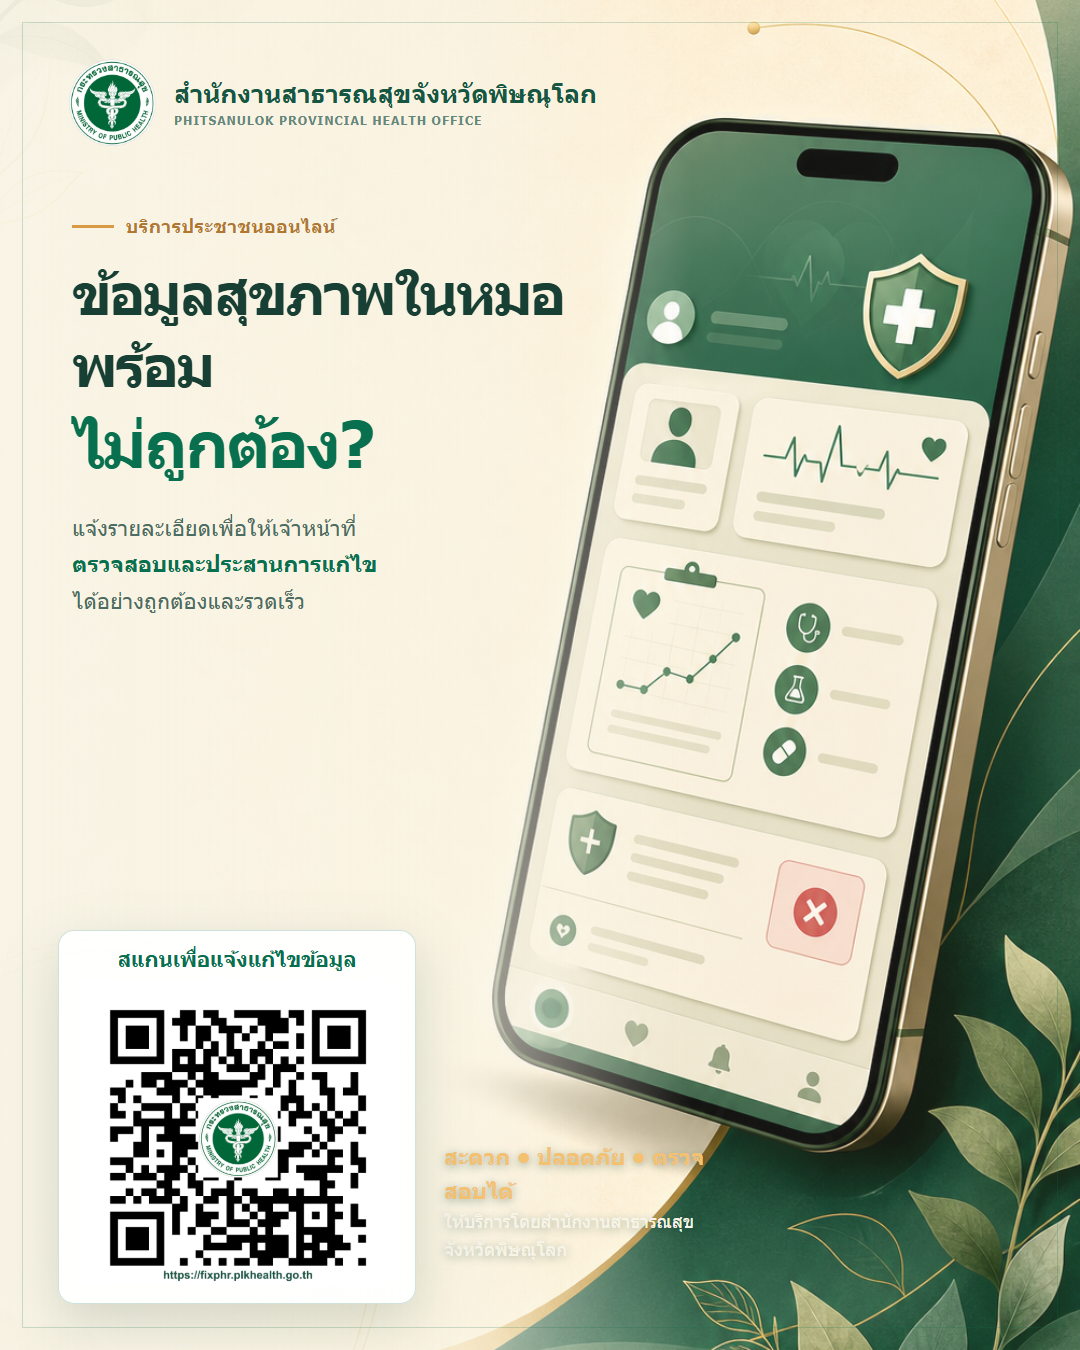
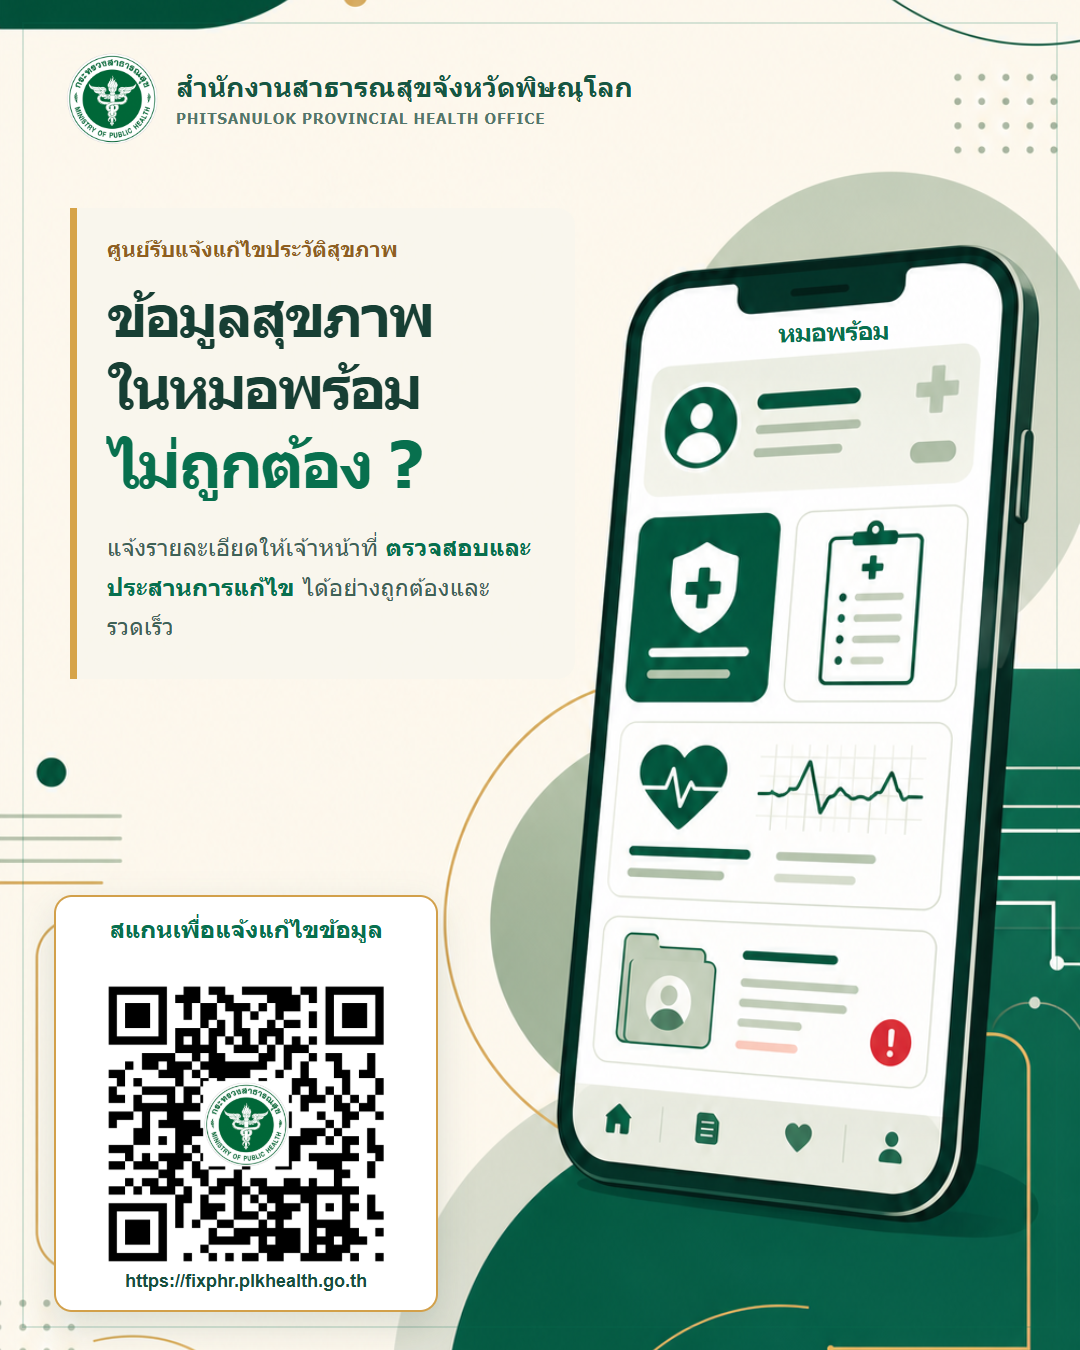
@ feat: add scannable QR code to the landing page
Point visitors on desktop at the mobile site and give staff something to
share. The code sits under the main call to action at 168px with a white
quiet zone so scanners lock on; on mobile the caption is dropped and the
code scales to min(230px, 68vw) so it stays scannable on a 320px screen.

@

diff --git a/src/app/globals.css b/src/app/globals.css
@@ -29,6 +29,12 @@ h1 strong { color: #08704e; font-weight: 700; }
 .complaint-button:hover { transform: translateY(-3px); background: #075e42; box-shadow: 0 16px 32px rgba(8, 112, 78, .29); }
 .complaint-button b { width: 45px; height: 45px; display: grid; place-items: center; border-radius: 3px; background: #f1b561; color: #164e3b; font: 700 26px/1 "DM Sans", sans-serif; }
 
+.qr-invite { display: flex; align-items: center; gap: 20px; margin-top: 28px; }
+.qr-invite img { width: 168px; height: auto; padding: 9px; background: #fff; border: 1px solid rgba(25, 86, 59, .16); border-radius: 8px; box-shadow: 0 10px 24px rgba(44, 75, 56, .1); }
+.qr-invite div { display: grid; gap: 4px; }
+.qr-invite strong { color: #175642; font-size: 15px; font-weight: 700; }
+.qr-invite span { color: #6b8880; font-size: 12px; line-height: 1.6; }
+
 .visual { min-height: 455px; position: relative; display: grid; place-items: center; }
 .visual::before { content: ""; position: absolute; width: min(34vw, 480px); aspect-ratio: 1; background: #d9eacb; border-radius: 47% 53% 47% 53% / 58% 42% 58% 42%; transform: rotate(-15deg); }
 .orbit { position: absolute; border: 1px solid rgba(8, 112, 78, .18); border-radius: 50%; }
@@ -46,4 +52,4 @@ h1 strong { color: #08704e; font-weight: 700; }
 footer { display: flex; justify-content: space-between; align-items: center; position: relative; z-index: 2; padding-top: 20px; }.visit-count { display: flex; align-items: center; gap: 8px; color: #55786c; font-size: 12px; }.visit-count svg { width: 18px; height: 18px; color: #d78a36; }.footer-mohprom { width: 72px; height: 72px; object-fit: contain; transform: translateY(-48px) scale(1.42); }
 .anchor-target { position: absolute; top: 0; }
 
-@media (max-width: 780px) { .landing-page { padding: 0; }.hero { min-height: 100svh; padding: 25px 25px 20px; border: 0; }.brand img { width: 63px; height: 63px; }.brand p { font-size: 19px; }.brand span { font-size: 12px; }.case-stats { top: auto; right: auto; bottom: 18px; left: 25px; gap: 5px; padding: 9px 10px; font-size: 10px; }.case-stats svg { width: 13px; height: 13px; }.case-stats b, .visit-count b { font-size: 14px; }.hero-grid { grid-template-columns: 1fr; gap: 0; }.hero-copy { padding: 48px 0 10px; transform: translateY(-20px); }.eyebrow { margin-bottom: 14px; } h1 { font-size: clamp(34px, 8.2vw, 48px); line-height: 1.38; }.intro { margin: 18px 0 24px; font-size: 14px; line-height: 1.75; }.complaint-button { width: 100%; justify-content: space-between; font-size: 14px; }.visual { min-height: 330px; margin-top: -14px; }.phone { width: 172px; border-radius: 26px; }.phone-top { height: 46px; padding-top: 12px; font-size: 12px; }.phone-top span { font-weight: 800; }.phone-screen { padding: 24px 16px; }.phone-screen h2 { font-size: 17px; }.phone-screen h2 > span { padding: 10px; }.issue-icons { gap: 8px; margin-bottom: 7px; }.issue-x { width: 31px; height: 31px; }.patient-chart { width: 31px; height: 31px; }.health-card { bottom: 25px; min-height: 67px; padding: 10px; }.cross { width: 25px; height: 25px; font-size: 19px; }.health-card b { font-size: 9px; }.leaf-one { right: 6%; }.leaf-two { left: 4%; } footer { padding-top: 3px; }.visit-count { font-size: 10px; transform: translateY(-48px); }.visit-count svg { width: 14px; height: 14px; }.footer-mohprom { width: 60px; height: 60px; transform: translateY(-36px) scale(1.42); } }
+@media (max-width: 780px) { .landing-page { padding: 0; }.hero { min-height: 100svh; padding: 25px 25px 20px; border: 0; }.brand img { width: 63px; height: 63px; }.brand p { font-size: 19px; }.brand span { font-size: 12px; }.case-stats { top: auto; right: auto; bottom: 18px; left: 25px; gap: 5px; padding: 9px 10px; font-size: 10px; }.case-stats svg { width: 13px; height: 13px; }.case-stats b, .visit-count b { font-size: 14px; }.hero-grid { grid-template-columns: 1fr; gap: 0; }.hero-copy { padding: 48px 0 10px; transform: translateY(-20px); }.eyebrow { margin-bottom: 14px; } h1 { font-size: clamp(34px, 8.2vw, 48px); line-height: 1.38; }.intro { margin: 18px 0 24px; font-size: 14px; line-height: 1.75; }.complaint-button { width: 100%; justify-content: space-between; font-size: 14px; }.qr-invite { justify-content: center; margin-top: 22px; }.qr-invite div { display: none; }.qr-invite img { width: min(230px, 68vw); }.visual { min-height: 330px; margin-top: -14px; }.phone { width: 172px; border-radius: 26px; }.phone-top { height: 46px; padding-top: 12px; font-size: 12px; }.phone-top span { font-weight: 800; }.phone-screen { padding: 24px 16px; }.phone-screen h2 { font-size: 17px; }.phone-screen h2 > span { padding: 10px; }.issue-icons { gap: 8px; margin-bottom: 7px; }.issue-x { width: 31px; height: 31px; }.patient-chart { width: 31px; height: 31px; }.health-card { bottom: 25px; min-height: 67px; padding: 10px; }.cross { width: 25px; height: 25px; font-size: 19px; }.health-card b { font-size: 9px; }.leaf-one { right: 6%; }.leaf-two { left: 4%; } footer { padding-top: 3px; }.visit-count { font-size: 10px; transform: translateY(-48px); }.visit-count svg { width: 14px; height: 14px; }.footer-mohprom { width: 60px; height: 60px; transform: translateY(-36px) scale(1.42); } }

diff --git a/src/app/page.tsx b/src/app/page.tsx
@@ -78,6 +78,19 @@ export default async function Home({ searchParams }: HomeProps) {
               สามารถแจ้งรายละเอียดให้เราตรวจสอบและประสานการแก้ไขได้ที่นี่
             </p>
             <ConsentComplaintLink autoPrompt={consent === "required"} />
+
+            <div className="qr-invite">
+              <Image
+                src="/fixphr-qrcode.png"
+                alt="คิวอาร์โค้ดสำหรับเข้าใช้งาน https://fixphr.plkhealth.go.th"
+                width={1200}
+                height={1156}
+              />
+              <div>
+                <strong>สแกนเพื่อเปิดบนมือถือ</strong>
+                <span>หรือส่งต่อให้ผู้อื่นแจ้งแก้ไขประวัติสุขภาพ</span>
+              </div>
+            </div>
           </div>
 
           <div className="visual" aria-hidden="true">
